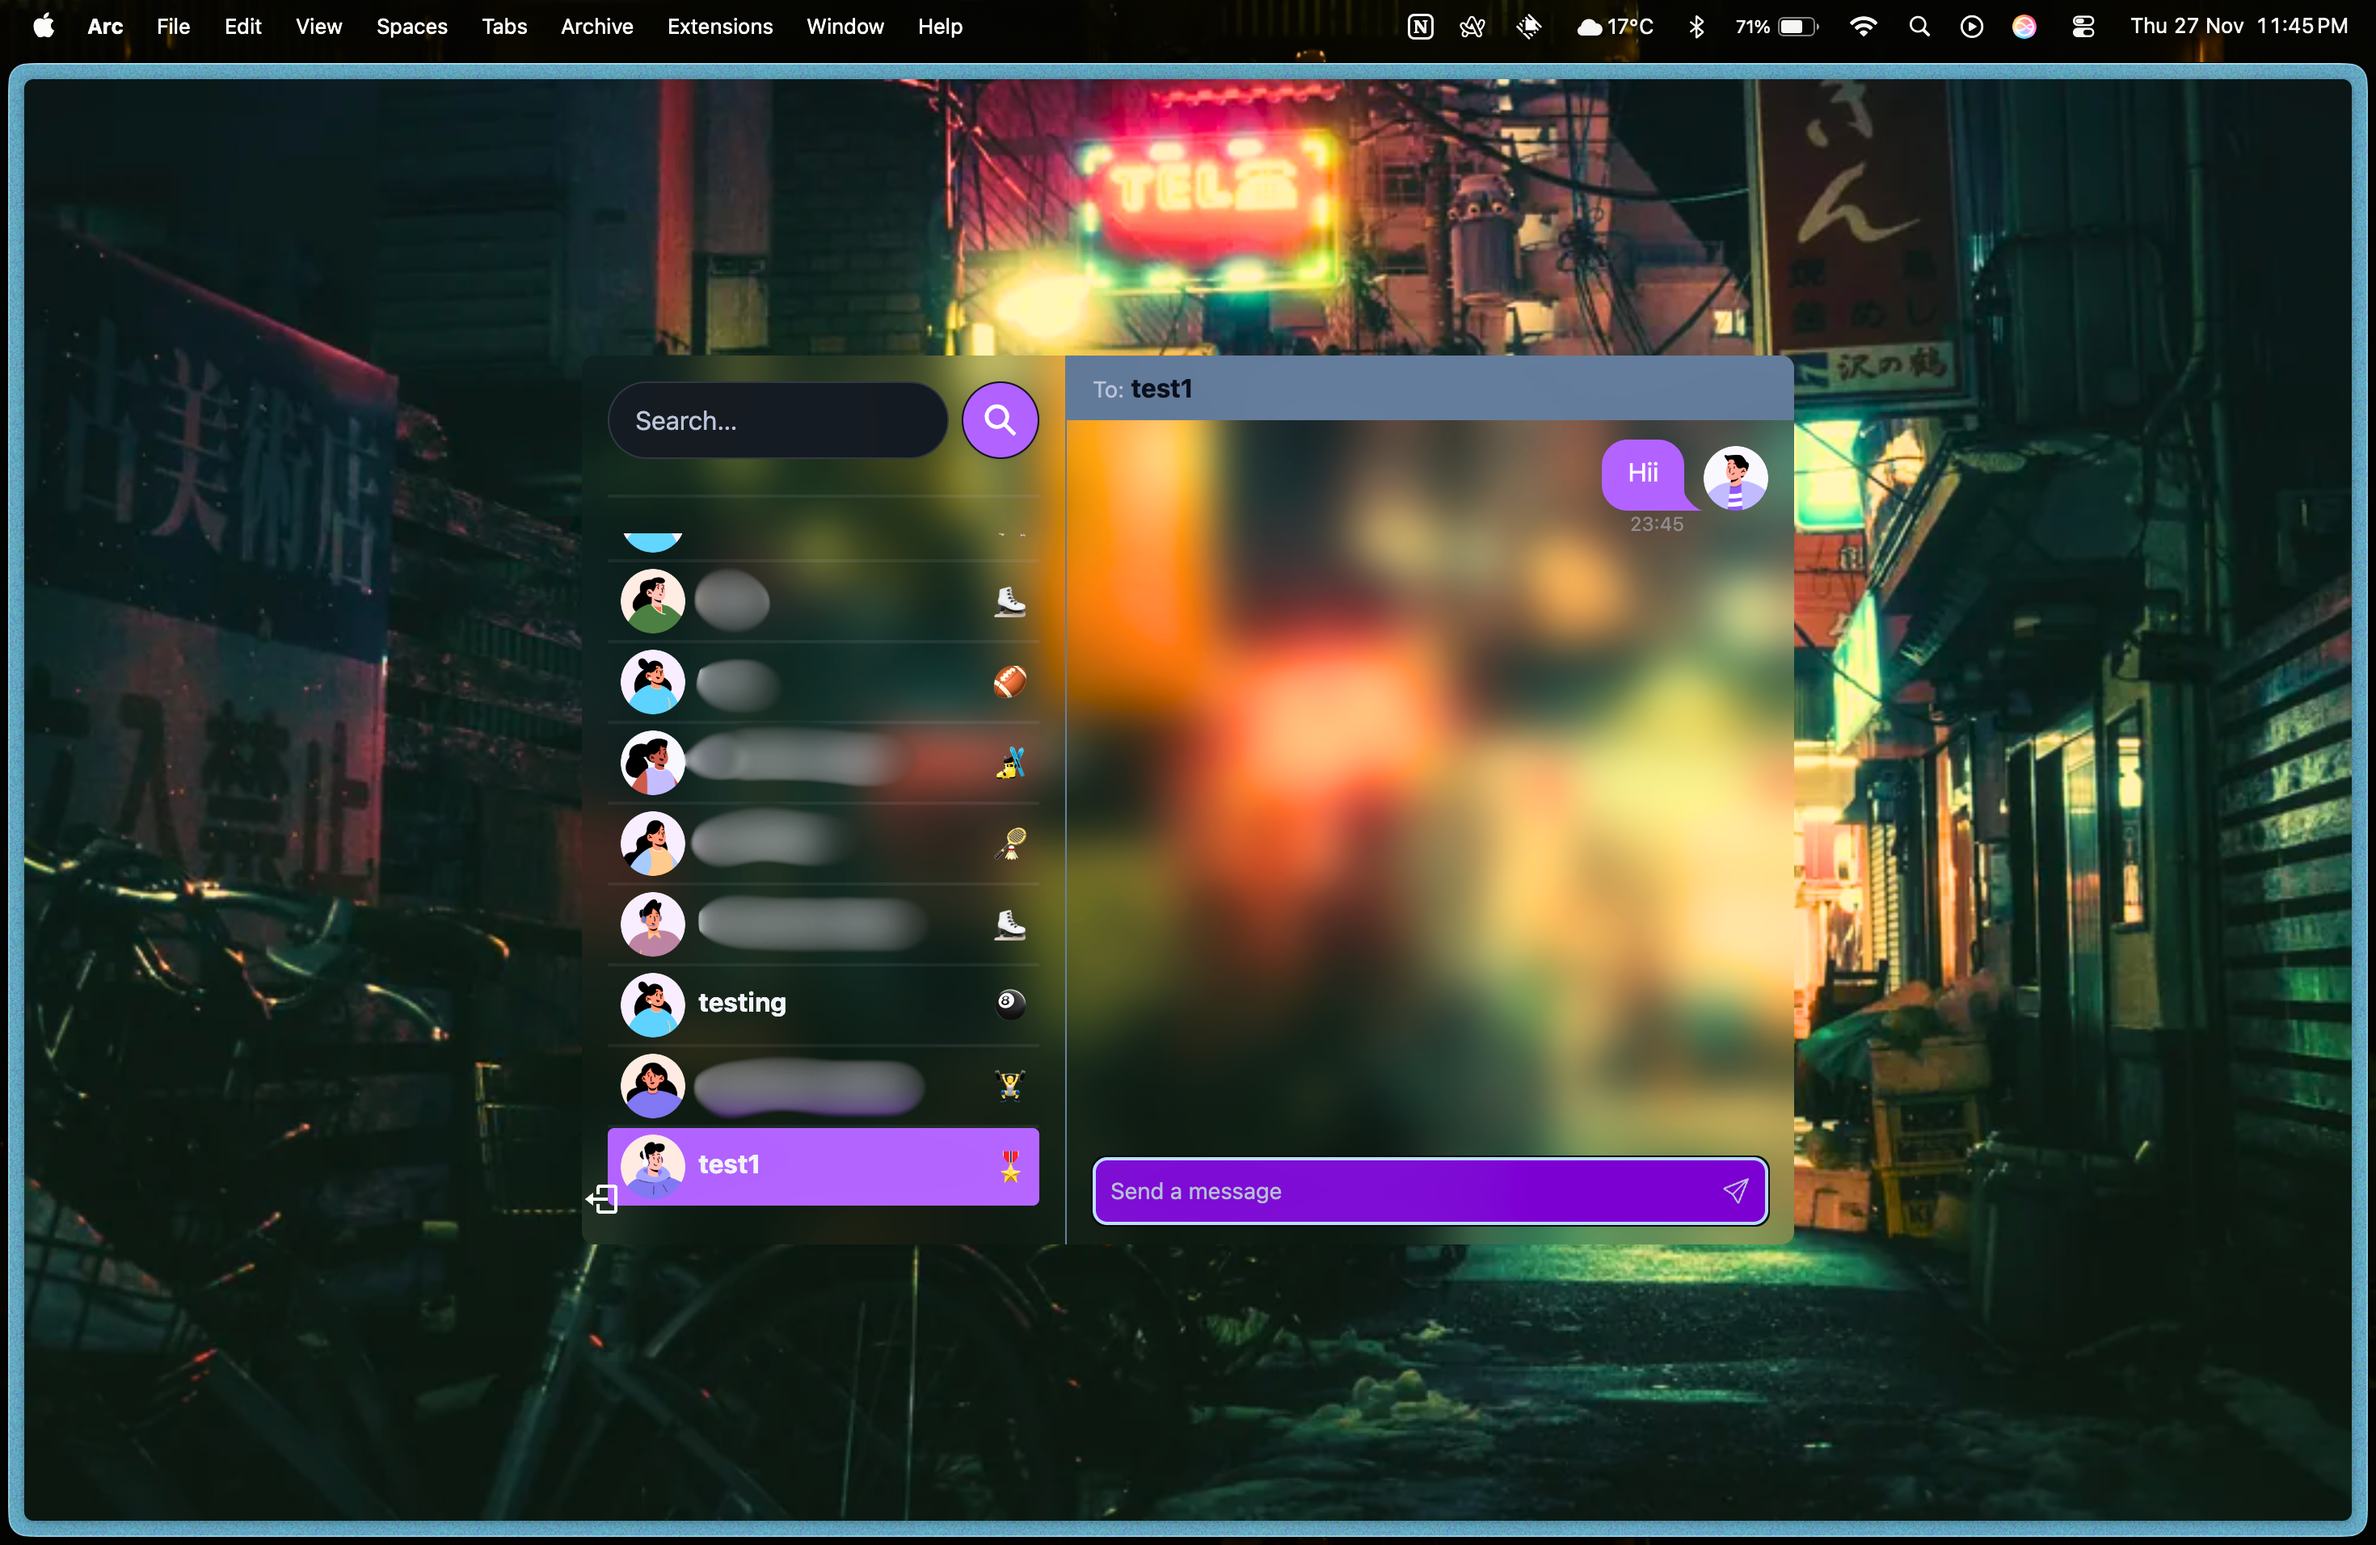
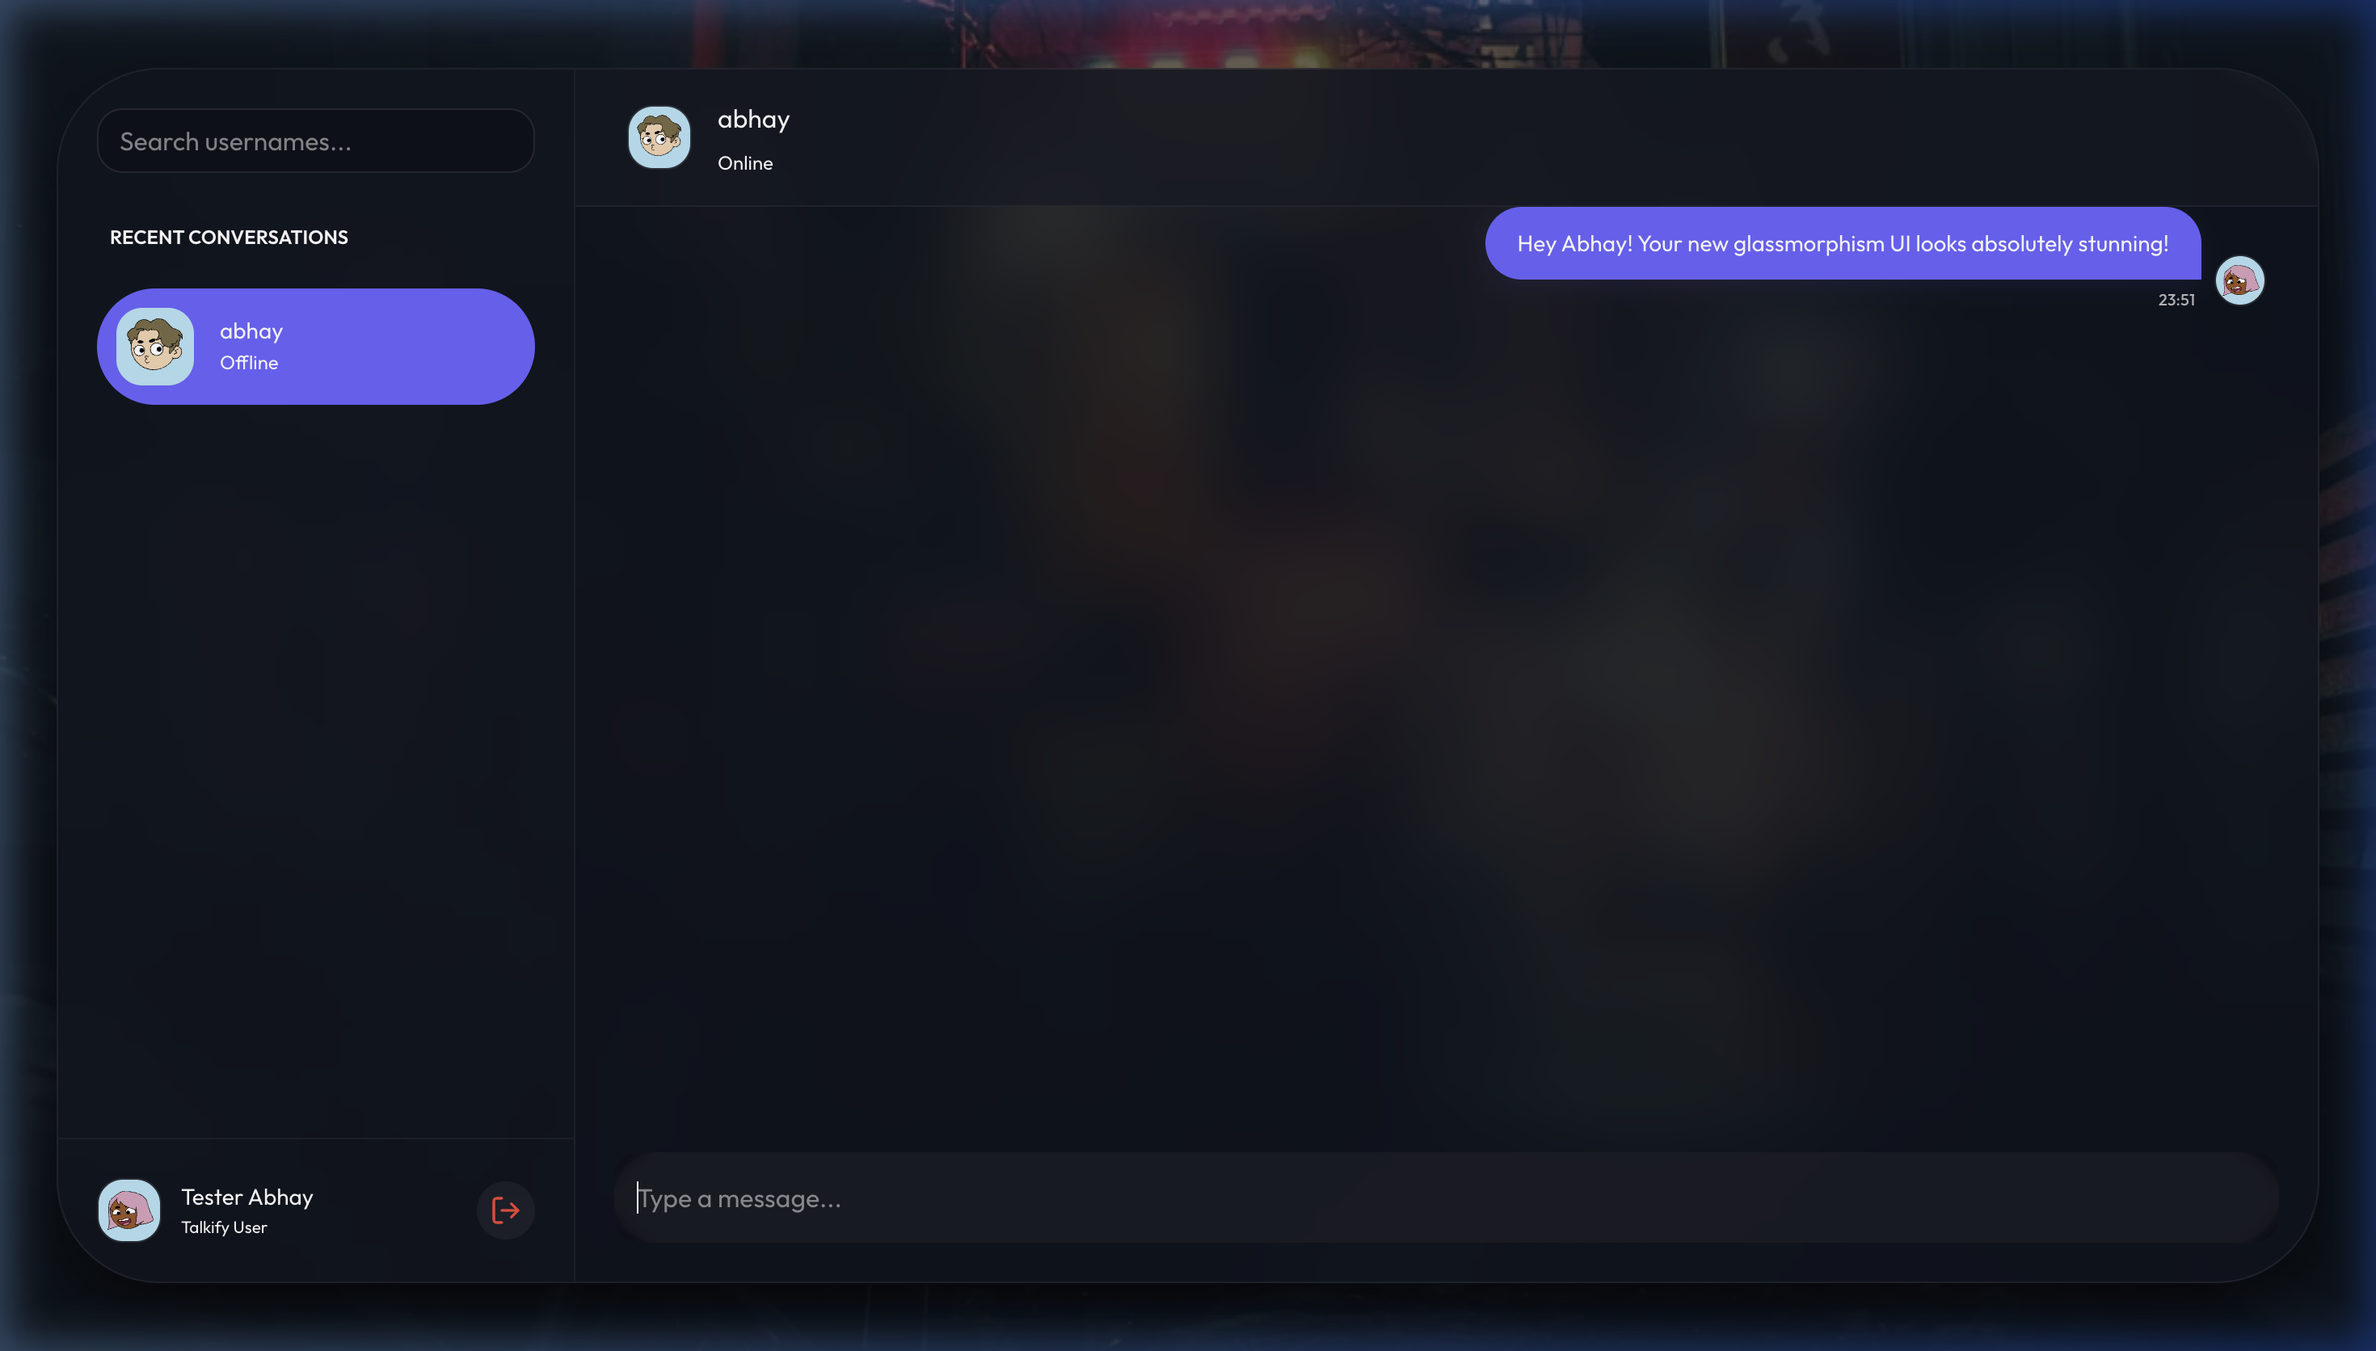
feat: add blog link to navigation, footer, and home page while updating social media URLs and assets

diff --git a/src/components/Footer.js b/src/components/Footer.js
@@ -2,9 +2,9 @@ import React from 'react';
 import { Link } from 'react-router-dom';
 import InstagramIcon from "@mui/icons-material/Instagram";
 import TwitterIcon from "@mui/icons-material/Twitter";
-import FacebookIcon from "@mui/icons-material/Facebook";
 import LinkedInIcon from "@mui/icons-material/LinkedIn";
 import EmailIcon from "@mui/icons-material/Email";
+import BookIcon from "@mui/icons-material/Book";
 import "../styles/Footer.css";
 
 function Footer() {
@@ -14,15 +14,15 @@ function Footer() {
         <Link to="https://www.instagram.com/pratap_abhay.10/" target="_blank" rel="noopener noreferrer">
           <InstagramIcon />
         </Link>
-        <Link to="https://www.facebook.com/ans.pratap" target="_blank" rel="noopener noreferrer">
-          <FacebookIcon />
-        </Link>
-        <Link to="https://twitter.com/AbhayPrSi" target="_blank" rel="noopener noreferrer">
+        <Link to="https://x.com/AbhayPrSi" target="_blank" rel="noopener noreferrer">
           <TwitterIcon />
         </Link>
-        <Link to="https://www.linkedin.com/in/abhay-pratap-singh-a68698229/" target="_blank" rel="noopener noreferrer">
+        <Link to="https://www.linkedin.com/in/abhay-pratap-singh1006/" target="_blank" rel="noopener noreferrer">
           <LinkedInIcon />
         </Link>
+        <a href="https://blogs.oniichad.com" target="_blank" rel="noopener noreferrer">
+          <BookIcon />
+        </a>
         <Link to="mailto:abhaypratapsingh1006@gmail.com">
           <EmailIcon />
         </Link>

diff --git a/src/pages/Home.js b/src/pages/Home.js
@@ -2,6 +2,7 @@ import React from "react";
 import LinkedInIcon from "@mui/icons-material/LinkedIn";
 import EmailIcon from "@mui/icons-material/Email";
 import GithubIcon from "@mui/icons-material/GitHub";
+import BookIcon from "@mui/icons-material/Book";
 import { Container, Typography, Box, IconButton, Paper, Grid, Button, Stack } from '@mui/material';
 import DownloadIcon from '@mui/icons-material/Download';
 
@@ -44,6 +45,13 @@ function Home() {
               sx={{ color: 'white' }}
             >
               <GithubIcon fontSize="large" />
+            </IconButton>
+            <IconButton 
+              href="https://blogs.oniichad.com" 
+              target="_blank" 
+              sx={{ color: 'white' }}
+            >
+              <BookIcon fontSize="large" />
             </IconButton>
           </Stack>
           <Button

diff --git a/src/components/Navbar.js b/src/components/Navbar.js
@@ -24,6 +24,7 @@ function Navbar() {
       <Link to="/"> Home </Link>
       <Link to="/projects"> Projects </Link>
       <Link to="/experience"> Experience </Link>
+      <a href="https://blogs.oniichad.com" target="_blank" rel="noopener noreferrer"> Blogs </a>
       <Link to="/contact"> Contact </Link>
       </div>
     </div>
